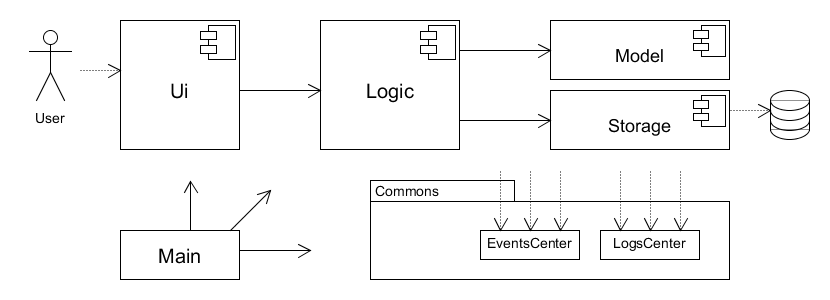
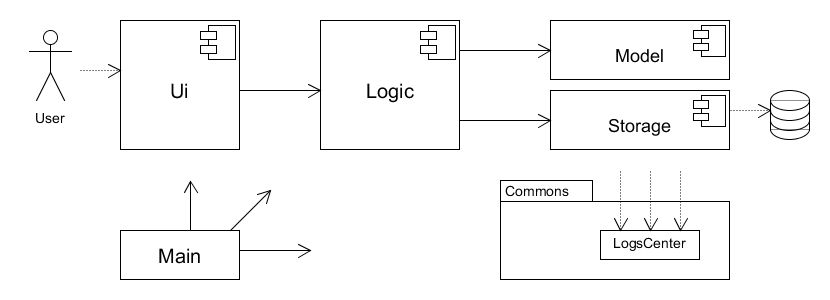
Remove EventBus

Changed region(s): [[0.4518, 0.6, 0.7229, 0.69], [0.5723, 0.72, 0.6928, 0.87], [0.4518, 0.93, 0.6024, 0.96]]

diff --git a/docs/DeveloperGuide.md b/docs/DeveloperGuide.md
@@ -131,14 +131,9 @@ for:
 [mainapp-src]: ../src/main/java/seedu/address/MainApp.java
 
 **`Commons`** represents a collection of classes used by multiple other
-components. Of these classes, two of them play important roles in the
-application architecture:
-
-* `EventsCentre`: This singleton class is used by components to communicate
-  with other components using events.
-
-* `LogsCenter`: This singleton class is used by classes to write log messages
-  to the application log file.
+components. Of these classes, the `LogsCenter` plays an important role in the
+application architecture. It is a singleton class used by classes to write log
+messages to the application log file.
 
 The rest of the App consists of four components:
 
